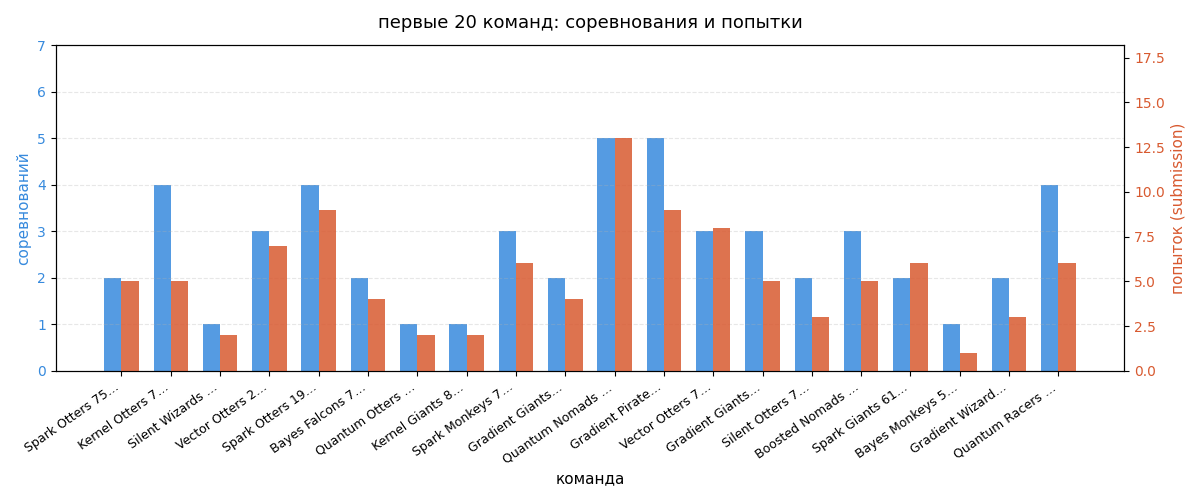
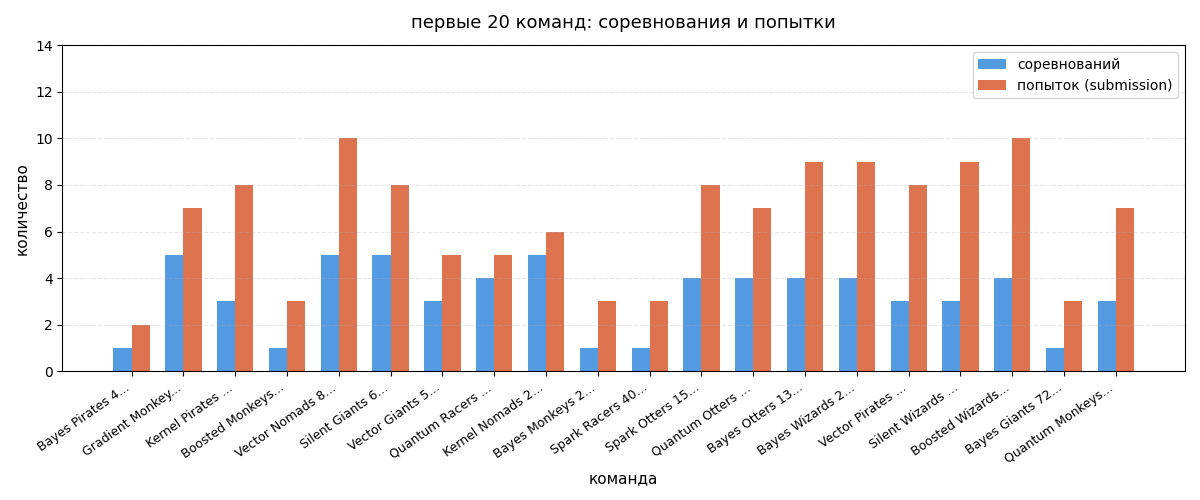
feat: migration

diff --git a/sem4/db/runner/config.py b/sem4/db/runner/config.py
@@ -1,11 +1,34 @@
 QUERIES = [
     {
-        "name": "q01",
+        "name": "q01_01",
         "description": (
             "Соревнования где пользователь A в роли B "
             "сделал попытку и соревнование содержит датасет C"
         ),
-        "sql_file": "q01.sql",
+        "sql_file": "q01_01.sql",
+        "param_queries":  """
+            SELECT u.username, r.name, d.name
+            FROM participation p
+            JOIN team_member tm         ON tm.team_id         = p.team_id
+            JOIN "user" u               ON u.user_id          = tm.user_id
+            JOIN role r                 ON r.role_id          = u.role_id
+            JOIN submission s           ON s.participation_id = p.participation_id
+            JOIN competition_dataset cd ON cd.competition_id  = p.competition_id
+            JOIN dataset d              ON d.dataset_id       = cd.dataset_id
+            ORDER BY RANDOM()
+            LIMIT 1
+        """,
+        "retries": 10,
+        "on_empty": "warn",
+        "plot": None,
+    },
+    {
+        "name": "q01_02",
+        "description": (
+            "Соревнования где пользователь A в роли B "
+            "сделал не менее трех попыток и соревнование содержит датасет C"
+        ),
+        "sql_file": "q01_02.sql",
         "param_queries":  """
             SELECT u.username, r.name, d.name
             FROM participation p
@@ -53,6 +76,24 @@ QUERIES = [
         "on_empty": "warn",
         "plot": "q03",
     },
+        {
+        "name": "q03_val_01",
+        "description": "Валидация 3 запроса 1",
+        "sql_file": "q03_val_01.sql",
+        "param_queries": [],
+        "retries": 1,
+        "on_empty": "warn",
+        "plot": None,
+    },
+    {
+        "name": "q03_val_02",
+        "description": "Валидация 2",
+        "sql_file": "q03_val_02.sql",
+        "param_queries": [],
+        "retries": 1,
+        "on_empty": "warn",
+        "plot": None,
+    },
     {
         "name": "q04_01",
         "description": "Пользователи с максимальным числом участий",
@@ -81,6 +122,15 @@ QUERIES = [
         "plot": "q05",
     },
     {
+        "name": "q05_val",
+        "description": "Валидация пятого запроса",
+        "sql_file": "q05_val.sql",
+        "param_queries": [],
+        "retries": 1,
+        "on_empty": "warn",
+        "plot": None,
+    },
+    {
         "name": "q06",
         "description": "Команды, у которых число участий больше, чем у другой команды",
         "sql_file": "q06.sql",
@@ -103,32 +153,15 @@ QUERIES = [
         "description": "Роли команд и число участников",
         "sql_file": "q08.sql",
         "param_queries": [],
-        "retries": 1,
+        "retries": 3,
         "on_empty": "warn",
         "plot": "q08",
     },
     {
         "name": "q09",
-        "type": "update",
         "description": "Обновить метрику попытки для команды A в соревновании B",
         "sql_file": "q09.sql",
-        "param_queries": """
-            SELECT
-                s.submission_id,
-                ROUND(s.metric_value * 1.1, 6),
-                s.metric_value,
-                t.name,
-                c.title,
-                s.attempt_number
-            FROM submission s
-                JOIN participation p  ON p.participation_id = s.participation_id
-                JOIN team t           ON t.team_id          = p.team_id
-                JOIN competition c    ON c.competition_id   = p.competition_id
-            WHERE s.metric_value IS NOT NULL
-            AND p.team_id IS NOT NULL
-            ORDER BY RANDOM()
-            LIMIT 1
-        """,
+        "param_queries": [],
         "retries": 5,
         "on_empty": "warn",
         "plot": None,

diff --git a/sem4/db/runner/plots/q03.py b/sem4/db/runner/plots/q03.py
@@ -9,54 +9,34 @@ OUTPUT_DIR = Path(__file__).parent.parent.parent / "artifacts"
 
 
 def build_histogram(rows: list[dict], output_path: Path, kde: bool = True) -> None:
-    teams          = [r["team_name"] for r in rows]
-    competitions   = np.array([r["competition_count"] for r in rows], dtype=float)
-    submissions    = np.array([r["submission_count"] for r in rows], dtype=float)
+    teams        = [r["team_name"] for r in rows]
+    competitions = np.array([r["competition_count"] for r in rows], dtype=float)
+    submissions  = np.array([r["submission_count"]  for r in rows], dtype=float)
 
-    labels = [name[:15] + "…" if len(name) > 15 else name for name in teams]
+    labels = [name[:15] + "..." if len(name) > 15 else name for name in teams]
     x      = np.arange(len(teams))
     width  = 0.35
-
-    fig, ax1 = plt.subplots(figsize=(12, 5))
 
     color_comps = "#378ADD"
     color_subms = "#D85A30"
 
-    bars1 = ax1.bar(
-        x - width / 2, competitions,
-        width=width, color=color_comps, alpha=0.85,
-        label="соревнований",
-    )
-    ax1.set_ylabel("соревнований", color=color_comps, fontsize=11)
-    ax1.tick_params(axis="y", labelcolor=color_comps)
-    ax1.set_ylim(0, competitions.max() * 1.4)
+    fig, ax = plt.subplots(figsize=(12, 5))
 
-    ax2 = ax1.twinx()
-    bars2 = ax2.bar(
-        x + width / 2, submissions,
-        width=width, color=color_subms, alpha=0.85,
-        label="попыток (submission)",
-    )
-    ax2.set_ylabel("попыток (submission)", color=color_subms, fontsize=11)
-    ax2.tick_params(axis="y", labelcolor=color_subms)
-    ax2.set_ylim(0, submissions.max() * 1.4)
+    ax.bar(x - width / 2, competitions, width=width,
+           color=color_comps, alpha=0.85, label="соревнований")
+    ax.bar(x + width / 2, submissions,  width=width,
+           color=color_subms, alpha=0.85, label="попыток (submission)")
 
-    if kde:
-        from scipy.stats import gaussian_kde
-        xs = np.linspace(0, len(teams) - 1, 300)
-        for ax, vals, color in [
-            (ax1, competitions, color_comps),
-            (ax2, submissions, color_subms),
-        ]:
-            kde_fn   = gaussian_kde(np.arange(len(teams)), bw_method=0.4)
-            kde_vals = kde_fn(xs) * vals.sum() * width * 8
-            ax.plot(xs, kde_vals, color=color, linewidth=2, linestyle="--")
+    ax.set_ylabel("количество", fontsize=11)
+    ax.set_ylim(0, max(competitions.max(), submissions.max()) * 1.4)
+    ax.yaxis.set_major_locator(plt.MaxNLocator(integer=True))
 
-    ax1.set_xticks(x)
-    ax1.set_xticklabels(labels, rotation=35, ha="right", fontsize=9)
-    ax1.set_xlabel("команда", fontsize=11)
-    ax1.set_title("первые 20 команд: соревнования и попытки", fontsize=13, pad=12)
-    ax1.grid(axis="y", alpha=0.3, linestyle="--")
+    ax.set_xticks(x)
+    ax.set_xticklabels(labels, rotation=35, ha="right", fontsize=9)
+    ax.set_xlabel("команда", fontsize=11)
+    ax.set_title("первые 20 команд: соревнования и попытки", fontsize=13, pad=12)
+    ax.grid(axis="y", alpha=0.3, linestyle="--")
+    ax.legend(fontsize=10)
 
     fig.tight_layout()
     fig.savefig(output_path)

diff --git a/sem4/db/runner/plots/q05.py b/sem4/db/runner/plots/q05.py
@@ -13,21 +13,12 @@ def build_q05_2d(rows: list[dict], output_path: Path) -> None:
 
     fig, ax = plt.subplots(figsize=(10, 6))
 
-    ax.plot(
+    ax.bar(
         x, y,
+        width=0.6,
         color="#2C6E49",
-        linewidth=2,
-        alpha=0.9,
-        label="распределение пользователей",
-    )
-    ax.scatter(
-        x, y,
-        s=55,
-        color="#D68C45",
-        edgecolors="white",
-        linewidth=0.8,
-        zorder=3,
-        label="точки (tm_count, user_count)",
+        alpha=0.85,
+        label="число пользователей",
     )
 
     for xi, yi in zip(x, y):
@@ -35,7 +26,7 @@ def build_q05_2d(rows: list[dict], output_path: Path) -> None:
             f"{int(yi):,}",
             (xi, yi),
             textcoords="offset points",
-            xytext=(0, 8),
+            xytext=(0, 5),
             ha="center",
             fontsize=8,
             color="#444441",
@@ -44,8 +35,9 @@ def build_q05_2d(rows: list[dict], output_path: Path) -> None:
     ax.set_title("q05: пользователи по числу командных участий", fontsize=13, pad=12)
     ax.set_xlabel("число участий в командах (tm_count)", fontsize=11)
     ax.set_ylabel("число пользователей (user_count)", fontsize=11)
-    ax.grid(alpha=0.3, linestyle="--")
     ax.set_xticks(x)
+    ax.yaxis.set_major_locator(plt.MaxNLocator(integer=True))
+    ax.grid(axis="y", alpha=0.3, linestyle="--")
     ax.legend(loc="upper right", framealpha=0.9)
 
     plt.tight_layout()

diff --git a/sem4/db/runner/query_runner.py b/sem4/db/runner/query_runner.py
@@ -66,28 +66,11 @@ class QueryRunner:
 
             print(f"[попытка {attempt}/{retries}] параметры: {params}")
 
-            if type == "update":
-                submission_id = params[0]
-                new_value     = params[1]
-                old_value     = params[2]
-                team_name     = params[3]
-                competition   = params[4]
-                attempt_num   = params[5]
-
-                await self.conn.execute(query, submission_id, new_value)
-
-                print(f"  команда     : {team_name}")
-                print(f"  соревнование: {competition}")
-                print(f"  попытка     : {attempt_num}")
-                print(f"  было        : {old_value}")
-                print(f"  стало       : {new_value}")
-                return None
-            else:
-                rows = await self.conn.fetch(query, *params)
-                if rows:
-                    self._print_result(rows)
-                    self._maybe_plot(plot, rows)
-                    return rows
+            rows = await self.conn.fetch(query, *params)
+            if rows:
+                self._print_result(rows)
+                self._maybe_plot(plot, rows)
+                return rows
 
             print(" -> пустой результат, повтор...")
 
